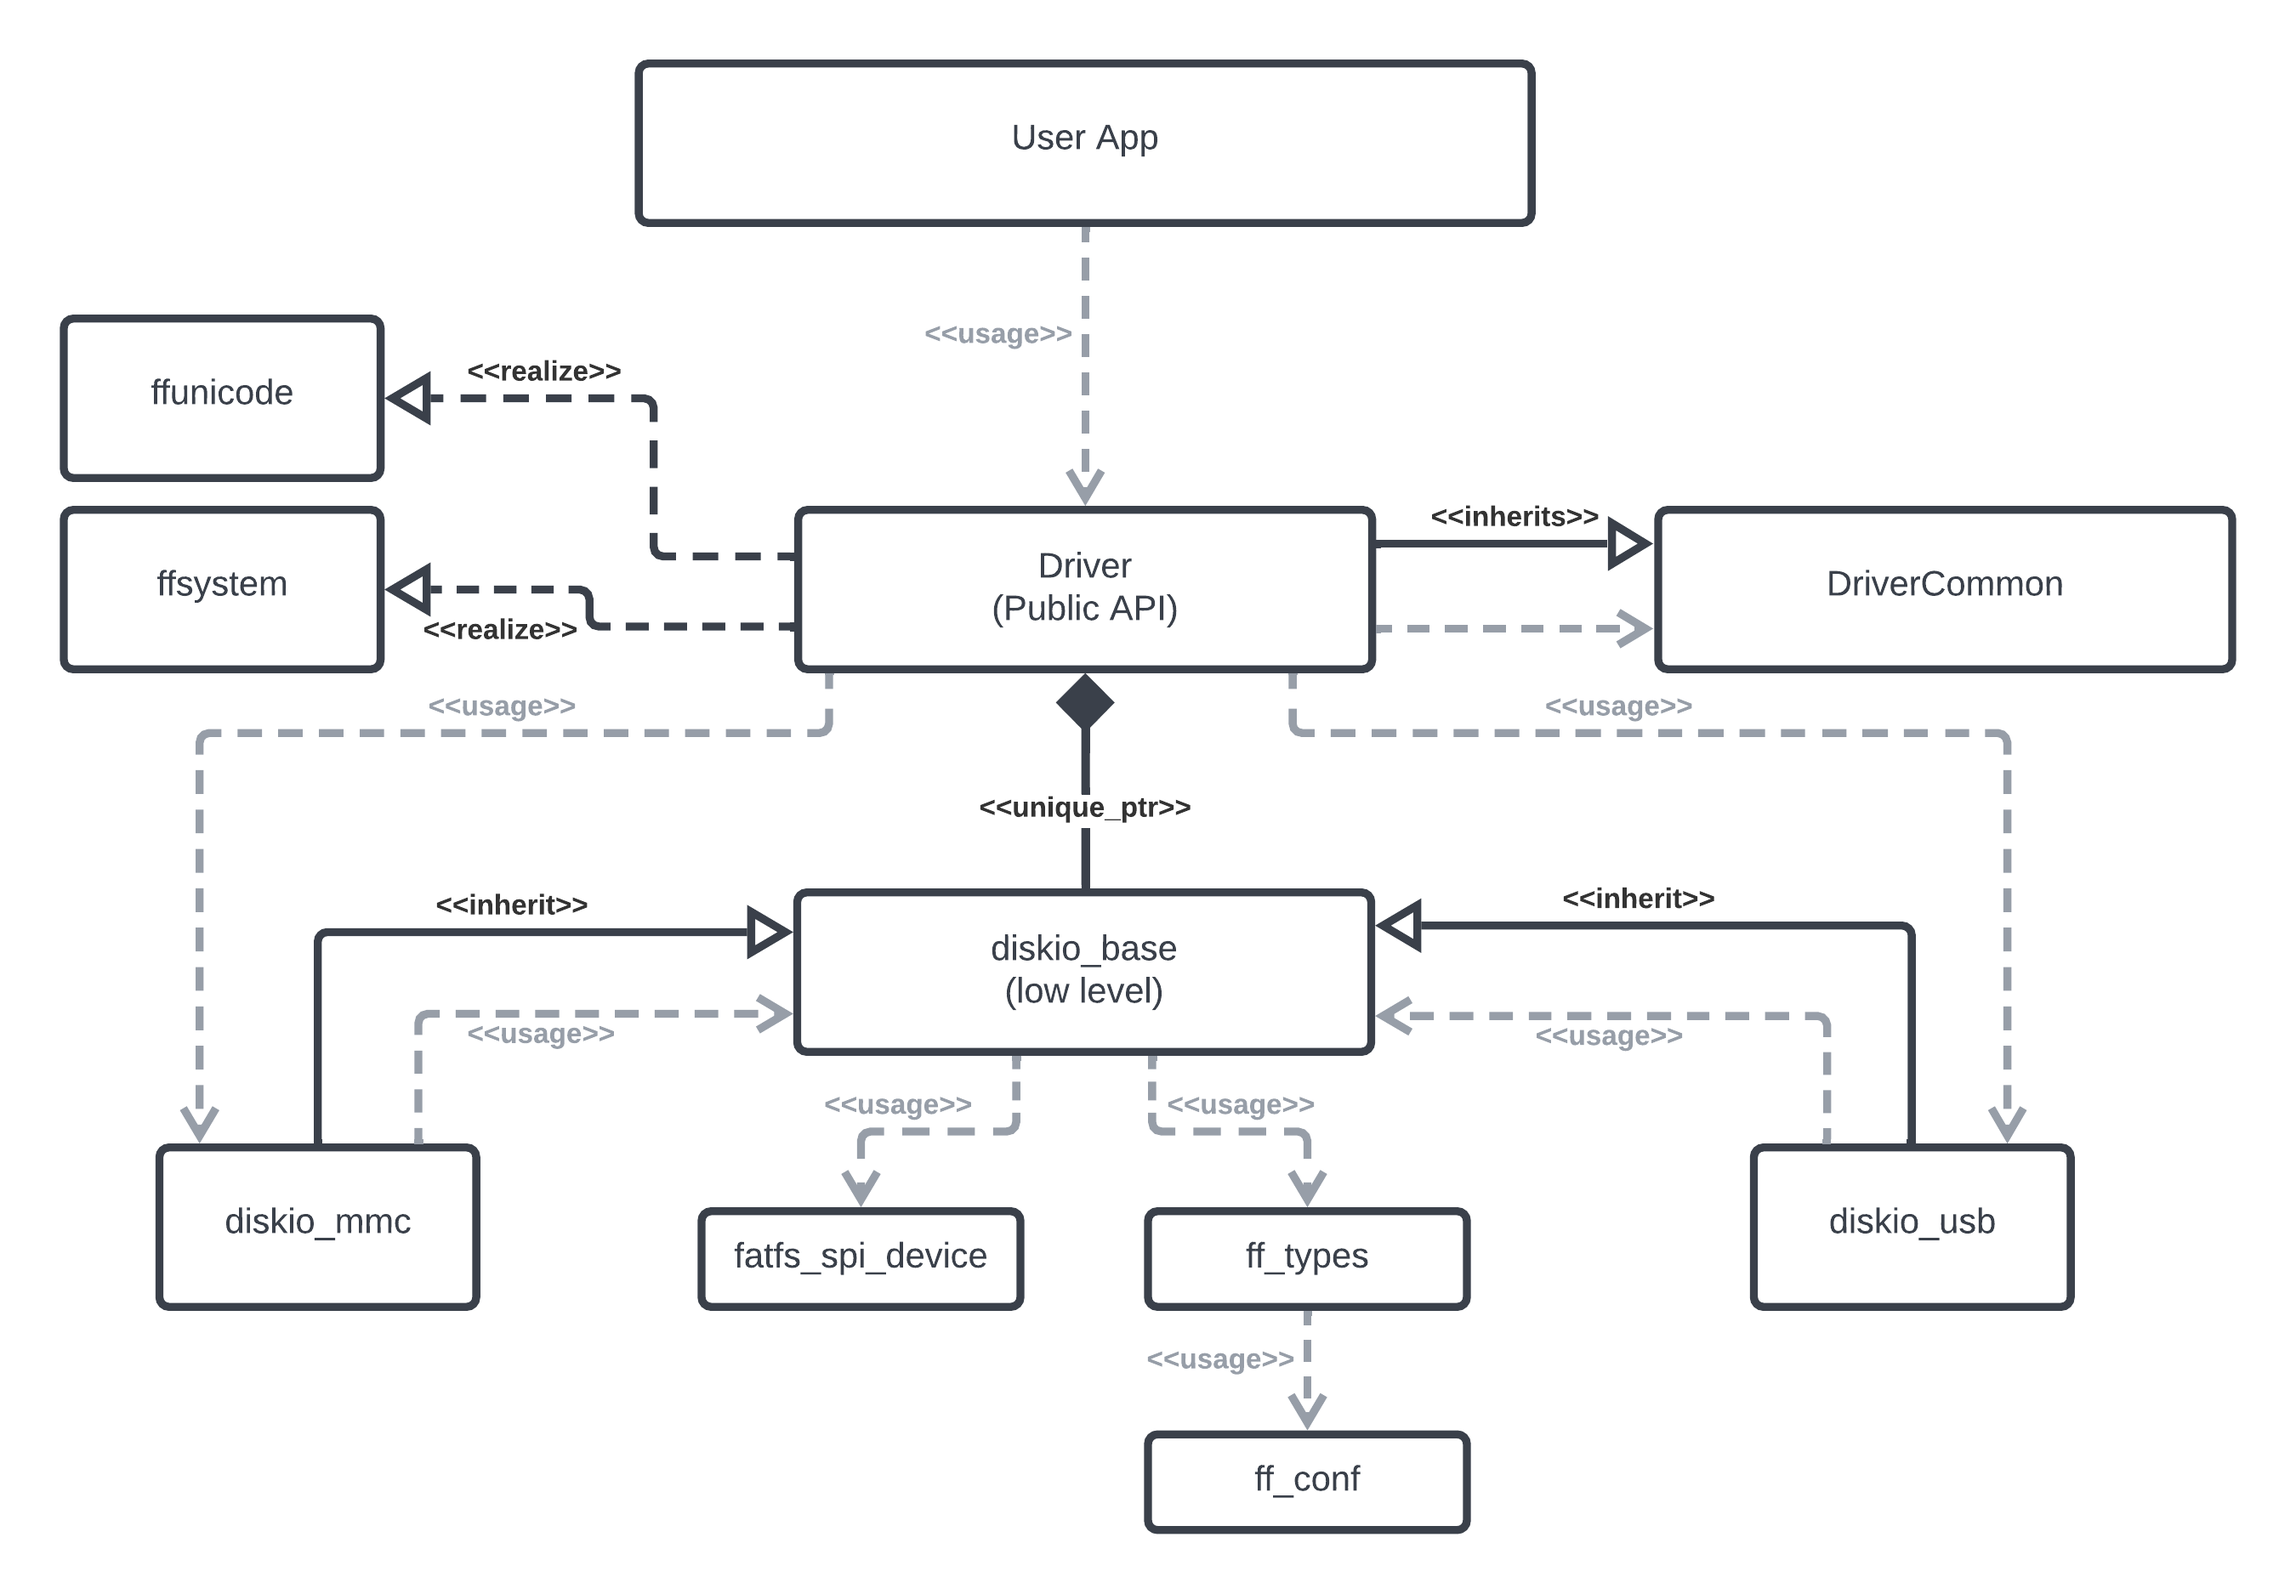
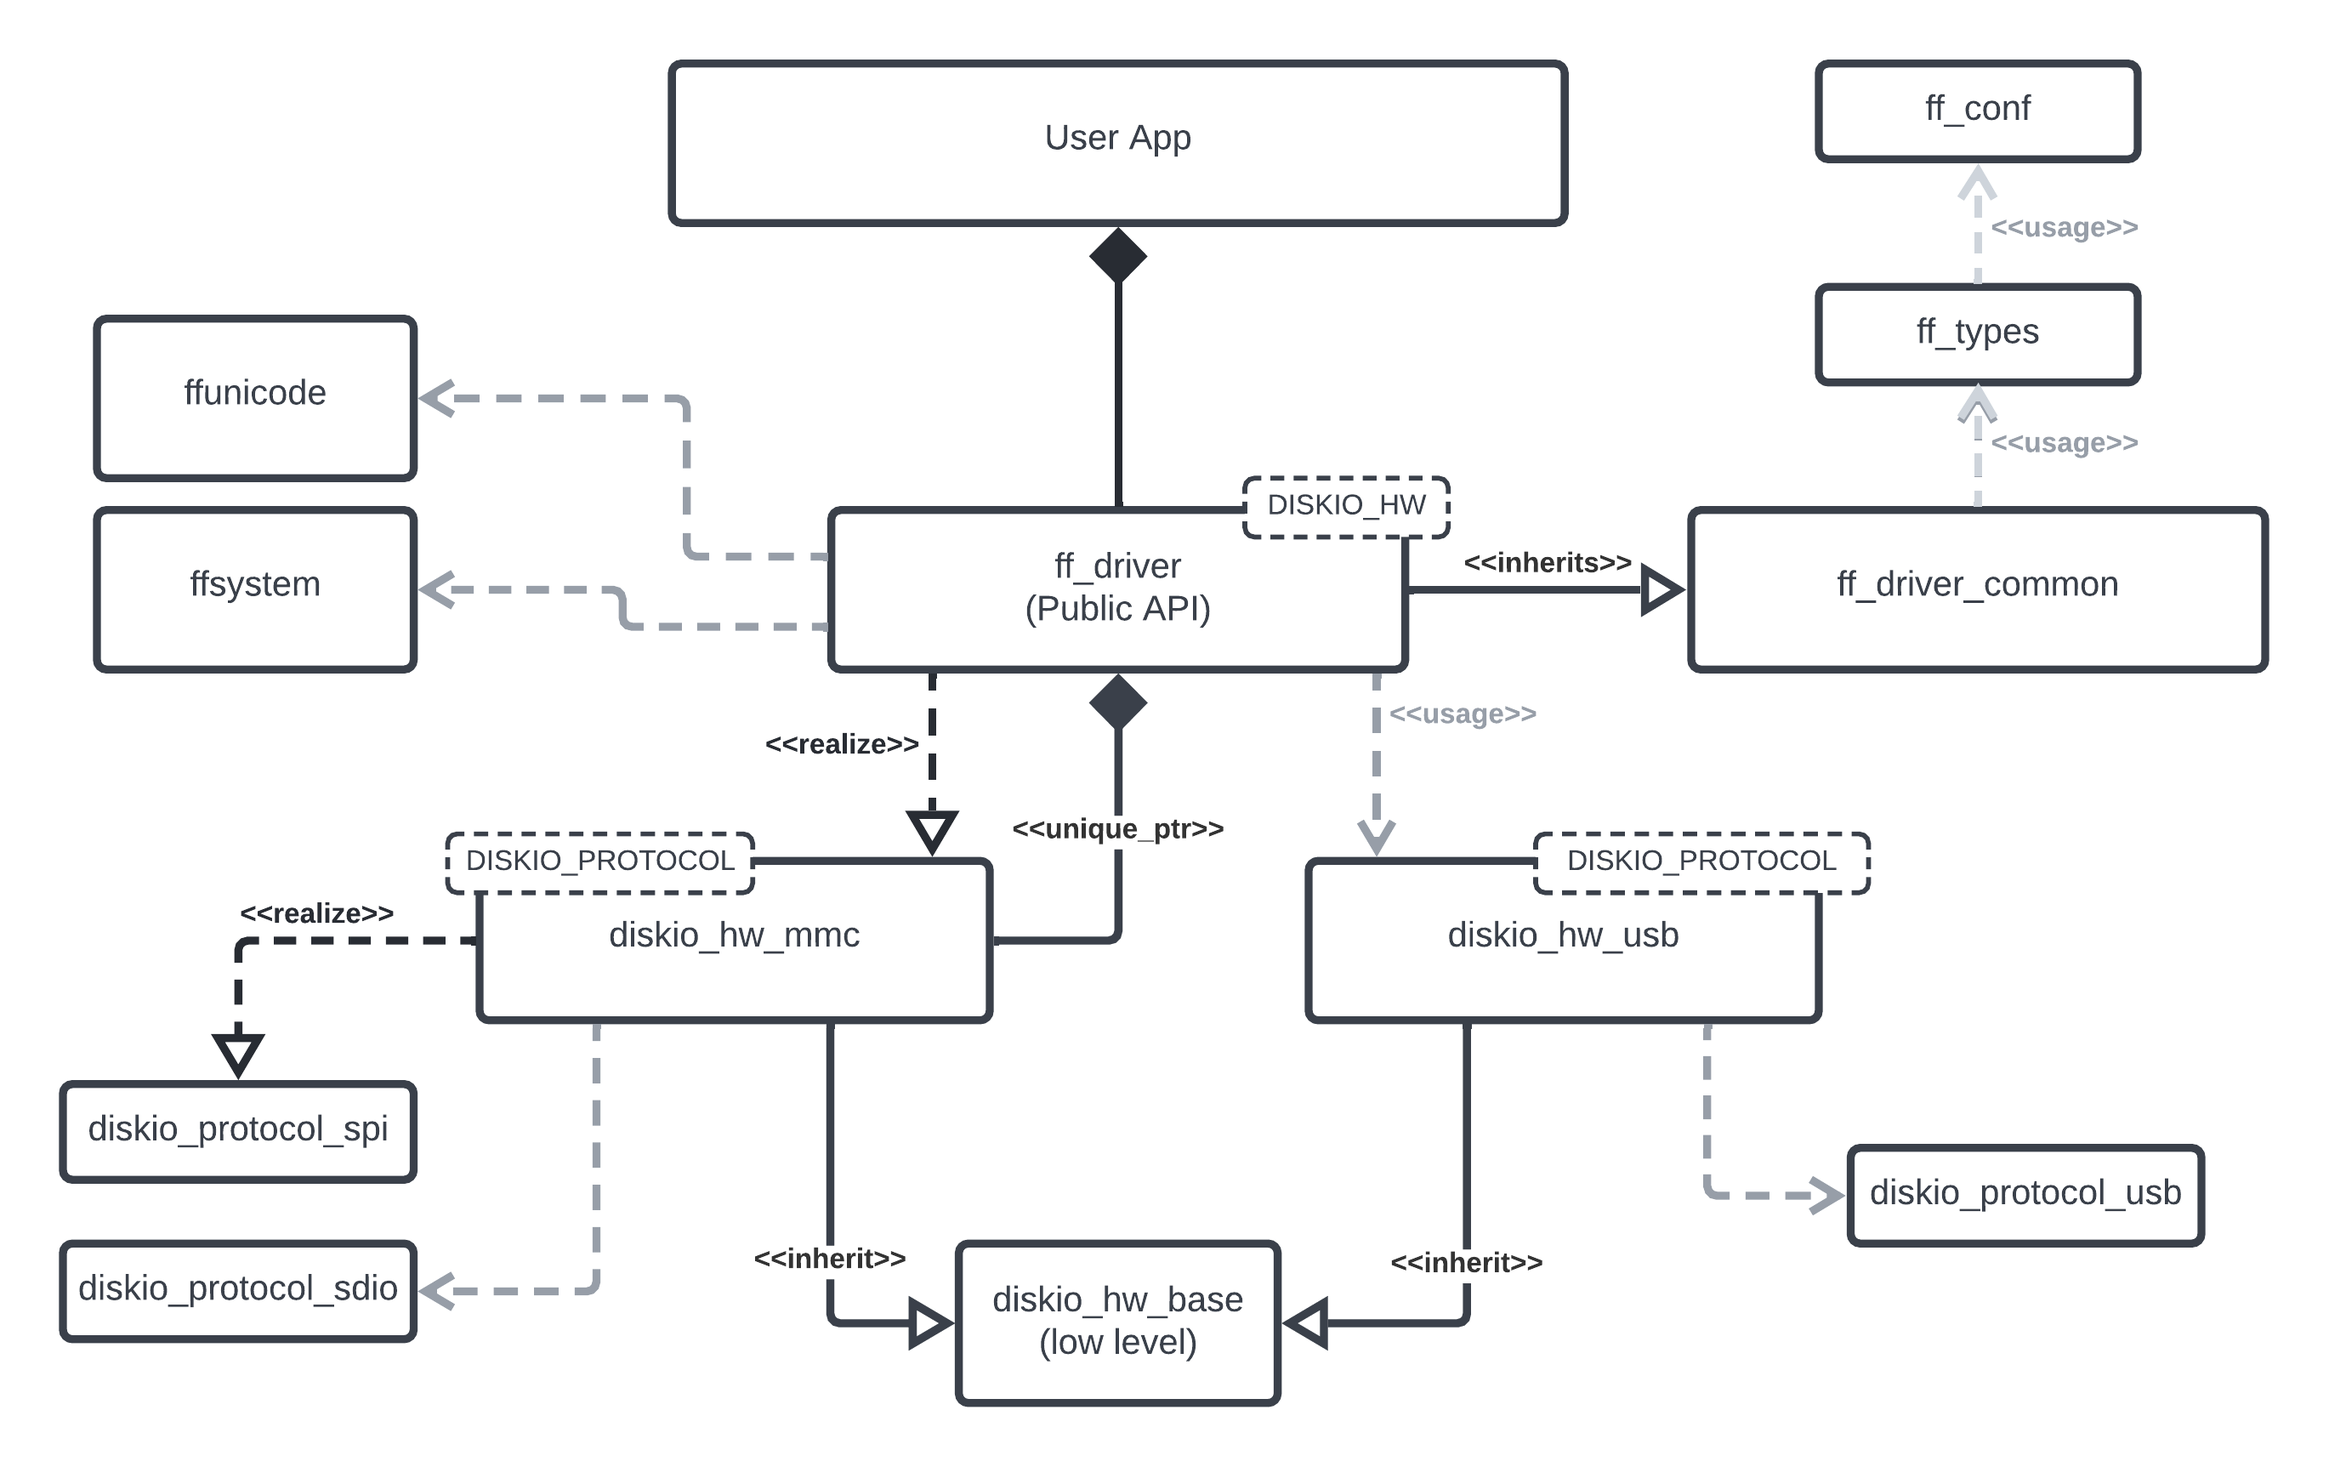
updated diagrams and readme

Changed region(s): [[0.0, 0.0307, 0.9956, 0.9832], [0.3422, 0.4916, 0.4044, 0.5223]]

diff --git a/README.md b/README.md
@@ -10,11 +10,11 @@ Details of the STM32 SPI interface (SPI_TypeDef, GPIO ports and pins) are passed
 ![](doc/cpp_fatfs-InitSequence.png)
 
 <!-- @startuml
-MainApp -> DriverInterfaceSPI ** : create
-MainApp -> FileManager ** : create(DriverInterfaceSPI)
-FileManager -> DiskioHardwareMMC ** : create(DriverInterfaceSPI)
-FileManager -> "Driver<DiskioHardwareMMC>" ** : create(DiskioHardwareMMC)
-"Driver<DiskioHardwareMMC>" -> "Driver<DiskioHardwareMMC>" : unique_ptr<DiskioHardwareMMC>
+MainApp -> DriverProtocolSPI ** : create
+MainApp -> FileManager ** : create(DriverProtocolSPI)
+FileManager -> "DiskioHardwareMMC<DriverProtocolSPI>" ** : create(DriverProtocolSPI)
+FileManager -> "Driver<DiskioHardwareMMC<DriverProtocolSPI>>" ** : create(DiskioHardwareMMC<DriverProtocolSPI>)
+"Driver<DiskioHardwareMMC<DriverProtocolSPI>>" -> "Driver<DiskioHardwareMMC<DriverProtocolSPI>>" : unique_ptr<DiskioHardwareMMC<DriverProtocolSPI>>
 @enduml -->
 
 ### CMake
